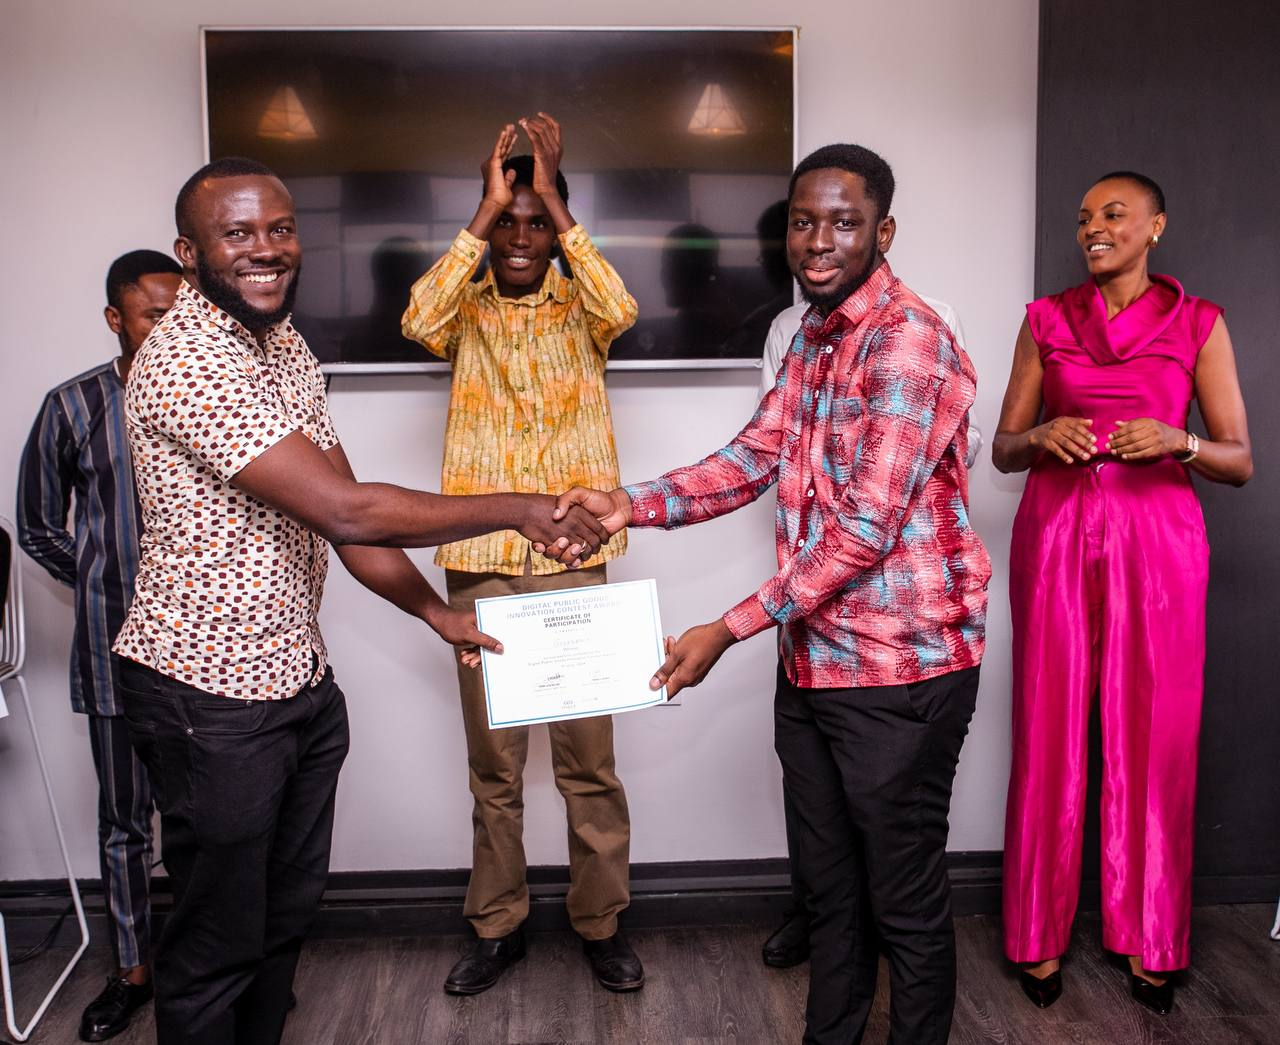
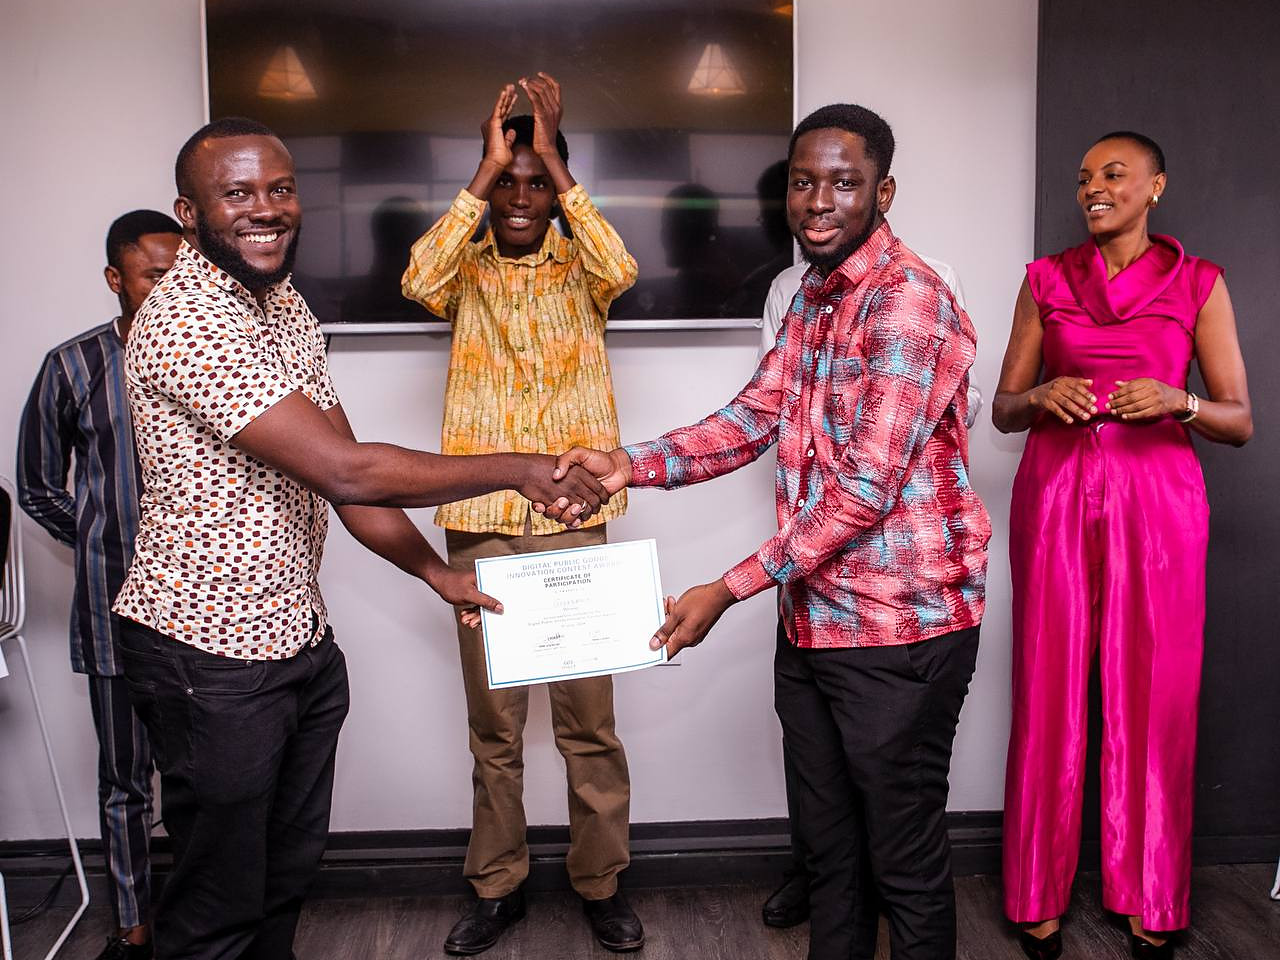
Sharpen and re-crop photos, show them larger; add Base Africa podcast

diff --git a/index.html b/index.html
@@ -108,13 +108,13 @@
   .video-preview .video-label { position: absolute; left: 8px; bottom: 8px; font-size: 12px; color: #fff; background: rgba(0,0,0,.65); padding: 2px 8px; border-radius: 999px; }
   .talk .video-preview { margin-left: 0; max-width: 360px; }
   .talk:hover .video-preview img { transform: scale(1.02); }
-  .gallery { display: grid; grid-template-columns: 1fr 1fr; gap: 12px; align-items: start; }
+  .gallery { display: grid; grid-template-columns: 1fr; gap: 18px; }
   .gallery figure { margin: 0; }
-  .gallery img { width: 100%; aspect-ratio: 4 / 3; object-fit: cover; border-radius: 10px; border: 1px solid var(--border); display: block; }
+  .gallery img { width: 100%; height: auto; border-radius: 10px; border: 1px solid var(--border); display: block; }
   .gallery figcaption { font-size: 13px; color: var(--muted); margin-top: 6px; }
   .awards li.has-photo { display: block; }
-  .award-photo { margin: 8px 0 0; max-width: 420px; }
-  .award-photo img { width: 100%; border-radius: 10px; border: 1px solid var(--border); display: block; }
+  .award-photo { margin: 10px 0 0; max-width: 100%; }
+  .award-photo img { width: 100%; height: auto; border-radius: 10px; border: 1px solid var(--border); display: block; }
   .award-photo figcaption { font-size: 13px; color: var(--muted); margin-top: 6px; }
   .card-links { display: flex; flex-wrap: wrap; gap: 6px 16px; margin-top: 8px; padding-left: 30px; font-size: 13px; }
   .card-links a { color: var(--foreground); border-bottom: 1px solid var(--border); }
@@ -343,7 +343,7 @@
     <h2>Awards</h2>
     <ul class="awards">
       <li><div><div class="award-name">Coinbase Batches 003</div><div class="award-sub">Winner with Solvador</div></div></li>
-      <li class="has-photo"><a class="cert" href="assets/dpg-certificate.jpg" target="_blank" rel="noopener"><div><div class="award-name">Digital Public Goods Innovation Contest Awards — Winner <span class="arrow">↗</span></div><div class="award-sub">Greenance (now EcoFundMe), with my co-founder · KOICA-UNICEF program with MEST Africa · view certificate</div></div><span class="year">2024</span></a><figure class="award-photo"><a href="assets/dpg-award-photo.jpg" target="_blank" rel="noopener"><img src="assets/dpg-award-photo.jpg" alt="Receiving the Digital Public Goods Innovation Contest award with my co-founder" loading="lazy" width="1280" height="1041"></a><figcaption>With my co-founder at the Digital Public Goods Innovation Contest Awards, July 2024</figcaption></figure></li>
+      <li class="has-photo"><a class="cert" href="assets/dpg-certificate.jpg" target="_blank" rel="noopener"><div><div class="award-name">Digital Public Goods Innovation Contest Awards — Winner <span class="arrow">↗</span></div><div class="award-sub">Greenance (now EcoFundMe), with my co-founder · KOICA-UNICEF program with MEST Africa · view certificate</div></div><span class="year">2024</span></a><figure class="award-photo"><a href="assets/dpg-award-photo.jpg" target="_blank" rel="noopener"><img src="assets/dpg-award-photo.jpg" alt="Receiving the Digital Public Goods Innovation Contest award with my co-founder" loading="lazy" width="1280" height="960"></a><figcaption>With my co-founder at the Digital Public Goods Innovation Contest Awards, July 2024</figcaption></figure></li>
       <li><div><div class="award-name">Avail Grant — $50,000</div><div class="award-sub">For EcoFundMe and the ZK Rollup L2 Governance, built on Avail's data availability layer</div></div><span class="year">2025</span></li>
       <li><div><div class="award-name">QuickNode Accelerator</div><div class="award-sub">With EcoFundMe · pitched to Dragonfly, Halo Capital and other VCs</div></div><span class="year">2025</span></li>
       <li><div><div class="award-name">Arbitrum × StackUp Hackathon — 1st Place</div><div class="award-sub">Offline Uniswap DEX · $2,500 and a sponsored trip to DevCon 2024, Bangkok</div></div><span class="year">2024</span></li>
@@ -372,8 +372,8 @@
   <section class="section" id="community">
     <h2>Community — The Graph DevRel in Ghana</h2>
     <div class="gallery">
-      <figure><a href="assets/graph-campus-tour.jpg" target="_blank" rel="noopener"><img src="assets/graph-campus-tour.jpg" alt="Group photo of students at The Graph workshop on the ETHAccra Campus Tour" loading="lazy" width="960" height="1280"></a><figcaption>Running a Graph Protocol workshop on the ETHAccra Campus Tour</figcaption></figure>
-      <figure><a href="assets/graph-workshop.jpg" target="_blank" rel="noopener"><img src="assets/graph-workshop.jpg" alt="Hands-on help with a student&#39;s code during a workshop" loading="lazy" width="1280" height="842"></a><figcaption>Hands-on help as students build their first subgraphs and dApps</figcaption></figure>
+      <figure><a href="assets/graph-campus-tour.jpg" target="_blank" rel="noopener"><img src="assets/graph-campus-tour.jpg" alt="Group photo of students at The Graph workshop on the ETHAccra Campus Tour" loading="lazy" width="960" height="720"></a><figcaption>Running a Graph Protocol workshop on the ETHAccra Campus Tour</figcaption></figure>
+      <figure><a href="assets/graph-workshop.jpg" target="_blank" rel="noopener"><img src="assets/graph-workshop.jpg" alt="Hands-on help with a student&#39;s code during a workshop" loading="lazy" width="1123" height="842"></a><figcaption>Hands-on help as students build their first subgraphs and dApps</figcaption></figure>
     </div>
   </section>
 
@@ -382,6 +382,7 @@
   <section class="section" id="talks">
     <h2>Talks &amp; Pitches</h2>
     <ul class="awards">
+      <li><a class="cert" href="https://x.com/Based_Africa/status/2091813149649371156" target="_blank" rel="noopener"><div><div class="award-name">Base Africa Podcast — Trust for the Agentic Economy <span class="arrow">↗</span></div><div class="award-sub">Conversation with Base (Coinbase) on compliance infrastructure for AI agents: agent identity, verified execution and my journey as a builder</div></div><span class="year">2026</span></a></li>
       <li><a class="cert talk" href="https://www.youtube.com/live/v-WpsBzGd8Y" target="_blank" rel="noopener"><div><div class="award-name">The Graph Builders Office Hours #58 — Building Africa&#39;s Crypto Infra <span class="arrow">↗</span></div><div class="award-sub">Podcast guest on The Graph&#39;s livestream</div><span class="video-preview"><img src="https://i.ytimg.com/vi/v-WpsBzGd8Y/hqdefault.jpg" alt="The Graph Builders Office Hours #58" loading="lazy" width="480" height="360"><span class="play" aria-hidden="true"></span><span class="video-label">Watch · 40 min</span></span></div><span class="year">2024</span></a></li>
       <li><div><div class="award-name">QuickNode Accelerator Pitch Day</div><div class="award-sub">Pitched EcoFundMe to Dragonfly, Halo Capital and 7 other VCs</div></div><span class="year">2025</span></li>
       <li><div><div class="award-name">UNICEF Digital Public Goods Stakeholder Forum</div><div class="award-sub">Presented EcoClime Africa's work on Africa's environmental challenges</div></div><span class="year">2024</span></li>
